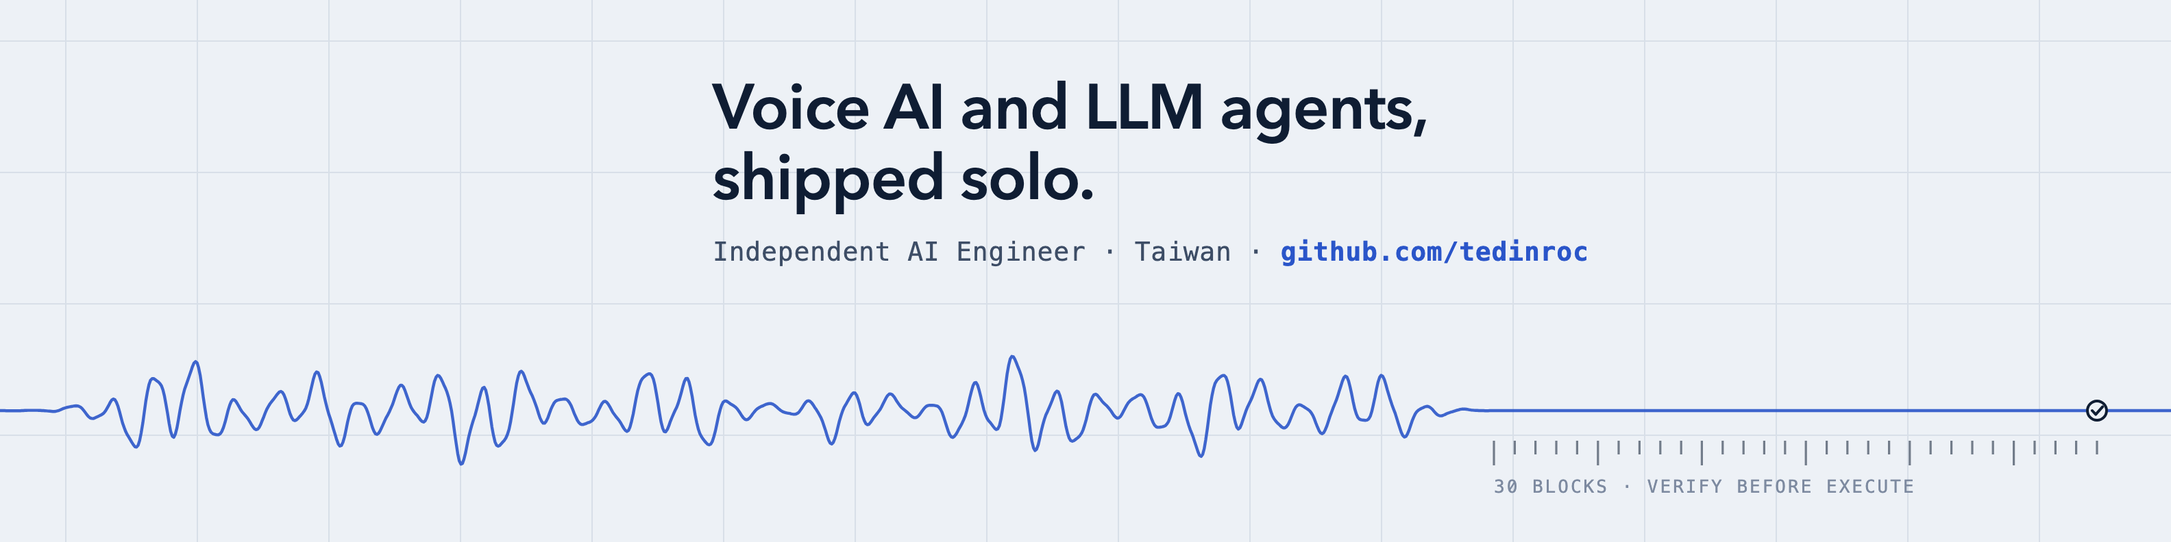
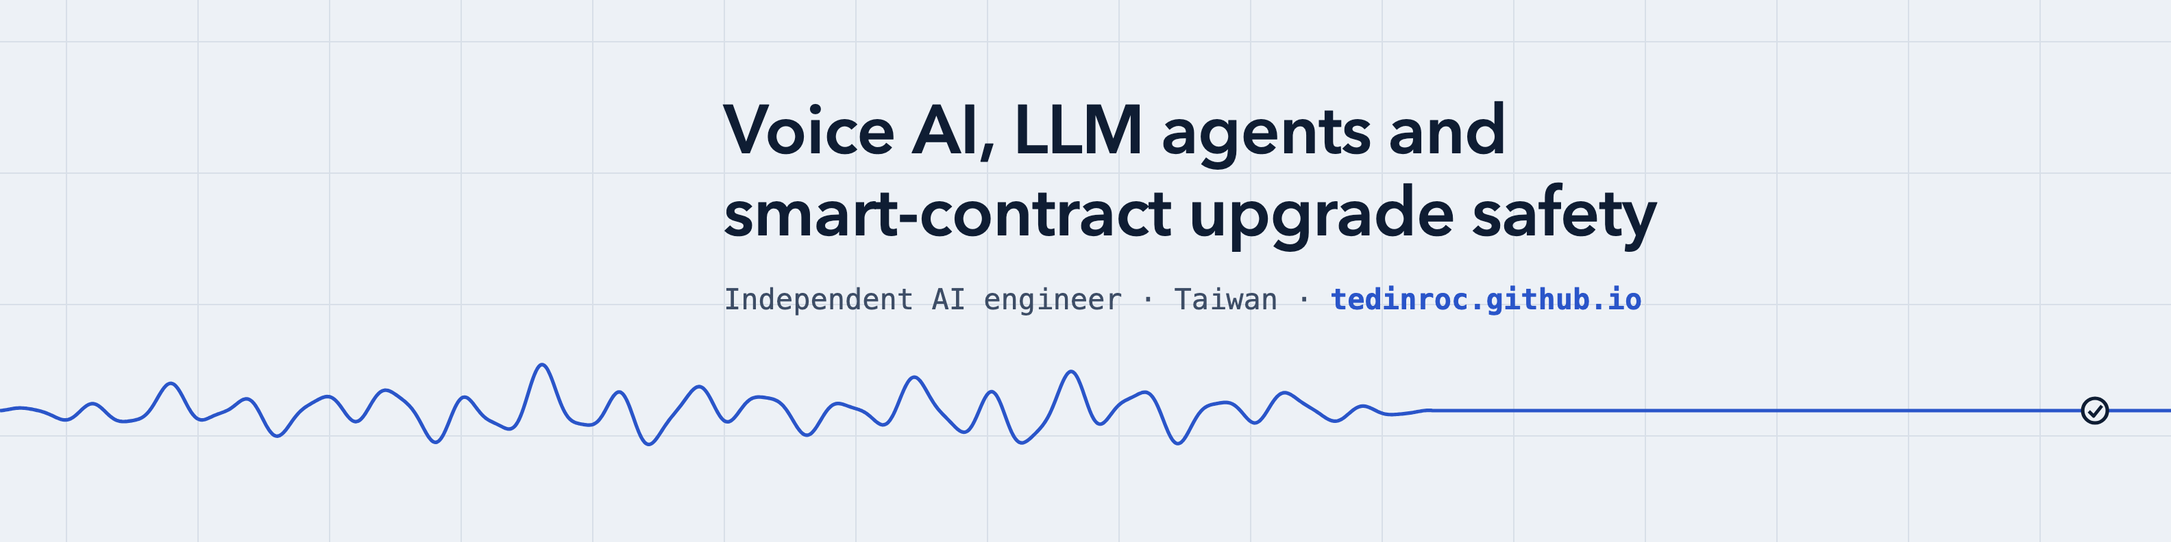
Plainer portfolio copy, add Upgrade Airlock page, new cover images

diff --git a/zh.html b/zh.html
@@ -4,18 +4,18 @@
 <meta charset="utf-8">
 <meta name="viewport" content="width=device-width, initial-scale=1">
 <title>Ted Chen · 作品集</title>
-<meta name="description" content="台灣的獨立 AI 工程師 Ted Chen。語音 AI、LLM agent、智能合約工具，獨立完成。現場演示、原始碼與比賽結果。">
+<meta name="description" content="台灣的獨立 AI 工程師 Ted Chen。語音 AI、LLM agent，以及智慧合約升級前的安全檢查工具。附 demo、錄影與原始碼。">
 <link rel="canonical" href="https://tedinroc.github.io/zh.html">
 <link rel="alternate" hreflang="en" href="https://tedinroc.github.io/">
 <meta property="og:type" content="website">
 <meta property="og:site_name" content="Ted Chen">
-<meta property="og:title" content="Ted Chen · 語音 AI 與 LLM agent，獨立完成">
-<meta property="og:description" content="台灣的獨立 AI 工程師。Eleven Seconds（Monad Blitz 上海 V3 第一名）、Upgrade Airlock（ETH Shenzhen 2026 第二名）、Isotherm、EARTHRISE、KAIKŌ 與語音 agent 智慧手錶，附現場 demo 與公開原始碼。">
+<meta property="og:title" content="Ted Chen · 台灣的獨立 AI 工程師">
+<meta property="og:description" content="語音 AI、LLM agent 與智慧合約升級安全。十一秒 Eleven Seconds（Monad Blitz 上海 V3 第一名）、Upgrade Airlock 升級氣閘（ETH Shenzhen 2026 第二名）、Isotherm、EARTHRISE、KAIKŌ 與語音 agent 手錶。">
 <meta property="og:url" content="https://tedinroc.github.io/zh.html">
 <meta property="og:image" content="https://tedinroc.github.io/assets/og/home.jpg">
 <meta property="og:image:width" content="1200">
 <meta property="og:image:height" content="627">
-<meta property="og:image:alt" content="Ted Chen：語音 AI 與 LLM agent，獨立完成。">
+<meta property="og:image:alt" content="Ted Chen，台灣的獨立 AI 工程師：語音 AI、LLM agent 與智慧合約升級安全。">
 <meta property="og:image:type" content="image/jpeg">
 <meta name="twitter:card" content="summary_large_image">
 <meta name="twitter:image" content="https://tedinroc.github.io/assets/og/home.jpg">
@@ -83,9 +83,9 @@ footer p{margin:0 0 6px}
 <div class="wrap">
   <header>
     <p class="eyebrow">Ted Chen · 獨立 AI 工程師 · 台灣</p>
-    <h1>語音 AI 與 LLM agent，獨立完成。</h1>
-    <p class="lede">我獨立開發語音 AI、LLM agent 與智能合約工具。題目由我選擇，系統由我設計；主要程式碼交由 Claude Code 與 Codex 產出，之後由我審查、測試、部署並親自演示。</p>
-    <p class="since">2006 年起獨立開發：先投入演算法交易，2016 年轉向智能合約，2023 年起專注於 AI 系統。</p>
+    <h1>語音 AI、LLM agent 與智慧合約升級安全。</h1>
+    <p class="lede">我在台灣做獨立開發，主要是語音 AI、LLM agent，以及智慧合約升級前的安全檢查工具。大部分程式碼是 Claude Code 和 Codex 寫的，設計、審查、測試和部署由我負責。</p>
+    <p class="since">2006 年開始寫程式交易策略，2016 年開始寫智慧合約，2023 年之後主要做 AI 系統。</p>
     <ul class="links">
       <li><a class="btn primary" href="https://github.com/tedinroc">GitHub</a></li>
       <li><a class="btn" href="https://www.linkedin.com/in/tedinroc">LinkedIn</a></li>
@@ -101,10 +101,10 @@ footer p{margin:0 0 6px}
         <img src="eleven-seconds-arena/og.jpg" alt="Eleven Seconds Arena: an attack proposal vetoed by three sentinels on Monad testnet" loading="lazy" width="1200" height="627">
         <div class="body">
           <p class="meta"><b>第一名</b> · Monad Blitz 上海 V3 · 2026 年 10 月</p>
-          <h3>Eleven Seconds</h3>
-          <p class="desc">智能合約升級的 30 個區塊冷卻期。三個 sentinel 程序各自持有私鑰，對新程式碼模擬攻擊；不變量被打破或模擬失敗，就在鏈上否決。於活動現場開發，單人參賽。僅限測試網，未經審計。</p>
+          <h3>十一秒 Eleven Seconds</h3>
+          <p class="desc">在 Monad 測試網上，合約升級要先等 30 個區塊；等待期間，三個 sentinel 程式會在模擬環境攻擊新程式碼，違反規則就在鏈上否決。當天在現場完成，單人參賽。</p>
           <div class="actions">
-            <a href="eleven-seconds-arena/">Arena：親自發動攻擊</a>
+            <a href="eleven-seconds-arena/">Arena：自己發動攻擊</a>
             <a href="eleven-seconds/">戰情室</a>
             <a href="https://github.com/tedinroc/eleven-seconds">原始碼（MIT）</a>
             <a href="https://mojo.devnads.com/events/17?tab=showcase">官方結果</a>
@@ -116,9 +116,10 @@ footer p{margin:0 0 6px}
         <img src="assets/img/upgrade-airlock-war-room.jpg" alt="Upgrade Airlock war room: a real replay of an EvilDrain upgrade vetoed by Chainlink CRE on Ethereum Sepolia" loading="lazy" width="1200" height="627">
         <div class="body">
           <p class="meta"><b>第二名</b> · ETH Shenzhen 2026 · 2026 年 10 月</p>
-          <h3>Upgrade Airlock</h3>
-          <p class="desc">每次 proxy 升級要過兩道門：以區塊計算的冷卻期，以及 Chainlink CRE 工作流的鏈上許可——工作流會先在模擬器裡攻擊新實作。攻擊成功的升級會收到簽名否決，永遠不會執行，即使攻擊者持有升級權限亦然。已部署於 Ethereum Sepolia，單人參賽。僅限測試網，未經審計。</p>
+          <h3>Upgrade Airlock 升級氣閘</h3>
+          <p class="desc">在 Ethereum Sepolia 測試網上，proxy 升級要先等冷卻期、拿到鏈上放行才能執行；Chainlink CRE 工作流會先模擬攻擊新實作，再決定放行或否決。單人參賽。</p>
           <div class="actions">
+            <a href="upgrade-airlock/">介紹</a>
             <a href="https://upgrade-airlock.pages.dev/">戰情室</a>
             <a href="https://upgrade-airlock.pages.dev/video/">Demo 影片</a>
             <a href="https://github.com/tedinroc/upgrade-airlock">原始碼（MIT）</a>
@@ -131,9 +132,9 @@ footer p{margin:0 0 6px}
         <div class="body">
           <p class="meta">Monad Metropolis Track 01 · 結果待公布</p>
           <h3>Isotherm</h3>
-          <p class="desc">Monad 測試網上的每日氣溫履約階梯：Kuru 訂單簿上的 YES/NO 代幣、做市機器人、給 AI agent 的 MetaMask Agent Wallet 外掛，以及用官方 CRE CLI 執行的 Chainlink CRE 工作流從機場 METAR 資料結算。149 個 Foundry 測試。僅使用測試 AUSD。</p>
+          <p class="desc">在 Monad 測試網上，每天針對城市最高溫開一組 YES/NO 市場（履約價階梯），透過 Chainlink CRE 工作流用機場 METAR 觀測資料結算。造市程式在 Kuru 訂單簿上報價，AI agent 也能透過 MetaMask Agent Wallet 外掛交易。149 個 Foundry 測試。</p>
           <div class="actions">
-            <a href="isotherm/">開啟應用</a>
+            <a href="isotherm/">開啟 App</a>
             <a href="https://youtu.be/15AFL_xz_3U">Demo 影片</a>
             <a href="https://github.com/tedinroc/isotherm">原始碼（MIT）</a>
           </div>
@@ -143,9 +144,9 @@ footer p{margin:0 0 6px}
       <article class="card">
         <img src="earthrise/img/cover_og.jpg" alt="EARTHRISE scene: Earth rising over a lunar crater rim" loading="lazy" width="1200" height="630">
         <div class="body">
-          <p class="meta">Tripothon S1 參賽 · 結果待公布</p>
+          <p class="meta">Tripothon S1 參賽作品 · 2026 年 10 月</p>
           <h3>EARTHRISE</h3>
-          <p class="desc">真實月球高程資料，加上 Tripo 生成的地球，用 three.js 即時渲染。</p>
+          <p class="desc">用 three.js 做的月球場景：坑緣用真實高程資料重建，轉動曲柄，Tripo 生成的地球就從坑緣後方升起。</p>
           <div class="actions">
             <a href="earthrise/">開啟場景</a>
             <a href="https://earthrise-daedalus.pages.dev/">官方參賽頁</a>
@@ -158,9 +159,9 @@ footer p{margin:0 0 6px}
         <div class="body">
           <p class="meta">語音 AI · 2026</p>
           <h3>KAIKŌ</h3>
-          <p class="desc">多租戶語音點餐：OpenAI Realtime over WebRTC，失敗時退回瀏覽器語音辨識，再退回打字。每個模型工具呼叫都在伺服器端檢查後才接受訂單。118 個測試通過。案例研究包含一段 90 秒的真實語音點餐錄音，從招呼至廚房顯示。</p>
+          <p class="desc">語音點餐系統，走 OpenAI Realtime（WebRTC），用示範店家資料展示。模型的每個工具呼叫都要經過伺服器檢查，價格也由伺服器重算。案例頁附一段 90 秒錄影，從打招呼一路到廚房顯示。</p>
           <div class="actions">
-            <a href="kaiko/">案例研究與 Demo 影片</a>
+            <a href="kaiko/">案例與錄影（英文）</a>
           </div>
         </div>
       </article>
@@ -169,10 +170,10 @@ footer p{margin:0 0 6px}
         <img src="watch/og.jpg" alt="ESP32-S3 voice-agent smartwatch prototype" loading="lazy" width="1200" height="627">
         <div class="body">
           <p class="meta">硬體原型 · 2026 年 8–9 月</p>
-          <h3>ESP32-S3 語音 agent 智慧手錶</h3>
-          <p class="desc">ESP32-S3 AMOLED 手錶上的語音 AI agent，建在 xiaozhi-esp32（MIT）和 ESP-Claw（Apache-2.0）上，搭配我自己寫的 Go 語音閘道。用單變數控制實驗把「回答被截斷」追到缺少 barge-in 確認視窗，而不是喇叭回音。僅有一個可用原型，尚非產品。</p>
+          <h3>ESP32-S3 語音 agent 手錶</h3>
+          <p class="desc">個人原型，在 ESP32-S3 AMOLED 手錶上跑語音 AI agent，以 xiaozhi-esp32（MIT）和 ESP-Claw（Apache-2.0）為基礎，Go 語音閘道是我自己寫的。回答常講到一半就斷掉，我用對照實驗排除喇叭回音，找到真正原因是 barge-in 沒有確認窗。</p>
           <div class="actions">
-            <a href="watch/">專案網站（中文）</a>
+            <a href="watch/">專案網站</a>
           </div>
         </div>
       </article>
@@ -182,7 +183,7 @@ footer p{margin:0 0 6px}
   </main>
 
   <footer>
-    <p>本站內容均為測試網、演示或原型。本站每個專案頁都放在 GitHub Pages 上：demo 的靜態副本、附錄音的案例研究（KAIKŌ），或是按下按鈕才載入線上應用的頁面（Arena 和 Isotherm）。</p>
+    <p>這裡的每個專案頁都放在 GitHub Pages 上：demo 的靜態副本、專案介紹（Upgrade Airlock）、附錄影的案例（KAIKŌ），或是按下按鈕才載入線上應用的頁面（Arena 和 Isotherm）。</p>
     <p>© 2026 Ted Chen</p>
   </footer>
 </div>

diff --git a/index.html b/index.html
@@ -4,18 +4,18 @@
 <meta charset="utf-8">
 <meta name="viewport" content="width=device-width, initial-scale=1">
 <title>Ted Chen · Projects</title>
-<meta name="description" content="Ted Chen, independent AI engineer in Taiwan. Voice AI, LLM agents and smart-contract tools, developed independently. Live demos, source code and results.">
+<meta name="description" content="Ted Chen, independent AI engineer in Taiwan. Voice AI, LLM agents and tools that check smart-contract upgrades before they run. Demos, recordings and source.">
 <link rel="canonical" href="https://tedinroc.github.io/">
 <link rel="alternate" hreflang="zh-Hant" href="https://tedinroc.github.io/zh.html">
 <meta property="og:type" content="website">
 <meta property="og:site_name" content="Ted Chen">
-<meta property="og:title" content="Ted Chen · Voice AI and LLM agents, developed independently">
-<meta property="og:description" content="Independent AI engineer in Taiwan. Eleven Seconds (1st place, Monad Blitz Shanghai V3), Upgrade Airlock (2nd, ETH Shenzhen 2026), Isotherm, EARTHRISE, KAIKŌ and a voice-agent smartwatch, with live demos, and source where public.">
+<meta property="og:title" content="Ted Chen · Independent AI engineer in Taiwan">
+<meta property="og:description" content="Voice AI, LLM agents and smart-contract upgrade safety. Eleven Seconds (1st place, Monad Blitz Shanghai V3), Upgrade Airlock (2nd place, ETH Shenzhen 2026), Isotherm, EARTHRISE, KAIKŌ and a voice-agent smartwatch.">
 <meta property="og:url" content="https://tedinroc.github.io/">
 <meta property="og:image" content="https://tedinroc.github.io/assets/og/home.jpg">
 <meta property="og:image:width" content="1200">
 <meta property="og:image:height" content="627">
-<meta property="og:image:alt" content="Ted Chen: Voice AI and LLM agents, developed independently.">
+<meta property="og:image:alt" content="Ted Chen, independent AI engineer in Taiwan: voice AI, LLM agents and smart-contract upgrade safety.">
 <meta property="og:image:type" content="image/jpeg">
 <meta name="twitter:card" content="summary_large_image">
 <meta name="twitter:image" content="https://tedinroc.github.io/assets/og/home.jpg">
@@ -83,9 +83,9 @@ footer p{margin:0 0 6px}
 <div class="wrap">
   <header>
     <p class="eyebrow">Ted Chen · Independent AI Engineer · Taiwan</p>
-    <h1>Voice AI and LLM agents, developed independently.</h1>
-    <p class="lede">I build voice AI, LLM agents and smart-contract tools independently: I select the problem, design the system, direct Claude Code and Codex to produce most of the implementation, and then review, test, deploy and demonstrate the result.</p>
-    <p class="since">Independent development since 2006: algorithmic trading first, smart contracts from 2016, and AI systems since 2023.</p>
+    <h1>Voice AI, LLM agents and smart-contract upgrade safety.</h1>
+    <p class="lede">I build voice AI, LLM agents and tools that check smart-contract upgrades before they run. Claude Code and Codex write most of my code from my designs, and I review, test and ship it.</p>
+    <p class="since">I started writing algorithmic trading strategies in 2006 and smart contracts in 2016, and have focused on AI systems since 2023.</p>
     <ul class="links">
       <li><a class="btn primary" href="https://github.com/tedinroc">GitHub</a></li>
       <li><a class="btn" href="https://www.linkedin.com/in/tedinroc">LinkedIn</a></li>
@@ -102,7 +102,7 @@ footer p{margin:0 0 6px}
         <div class="body">
           <p class="meta"><b>1st place</b> · Monad Blitz Shanghai V3 · Oct 2026</p>
           <h3>Eleven Seconds</h3>
-          <p class="desc">A 30-block cooldown on smart-contract upgrades. Three sentinel processes, each with its own key, simulate attacks against the new code and veto it on chain when an invariant breaks or the simulation fails. Developed on site, entered solo. Testnet only, not audited.</p>
+          <p class="desc">On the Monad testnet, each contract upgrade waits 30 blocks while three sentinel processes attack the new code in simulation and veto it on chain if it breaks a rule. Built on site, entered solo.</p>
           <div class="actions">
             <a href="eleven-seconds-arena/">Arena: fire an attack</a>
             <a href="eleven-seconds/">War room</a>
@@ -117,8 +117,9 @@ footer p{margin:0 0 6px}
         <div class="body">
           <p class="meta"><b>2nd place</b> · ETH Shenzhen 2026 · Oct 2026</p>
           <h3>Upgrade Airlock</h3>
-          <p class="desc">Every proxy upgrade passes two doors: a cooldown measured in blocks, and an on-chain clearance from a Chainlink CRE workflow that first attacks the new implementation in a simulator. An upgrade that fails the attack receives a signed veto and does not execute, even if the attacker holds the upgrade key. Live on Ethereum Sepolia, entered solo. Testnet only, not audited.</p>
+          <p class="desc">On the Ethereum Sepolia testnet, a proxy upgrade has to wait out a cooldown and get an on-chain clearance. A Chainlink CRE workflow attacks the new implementation in simulation first, then clears or vetoes it. Entered solo.</p>
           <div class="actions">
+            <a href="upgrade-airlock/">Overview</a>
             <a href="https://upgrade-airlock.pages.dev/">War room</a>
             <a href="https://upgrade-airlock.pages.dev/video/">Demo video</a>
             <a href="https://github.com/tedinroc/upgrade-airlock">Source (MIT)</a>
@@ -131,7 +132,7 @@ footer p{margin:0 0 6px}
         <div class="body">
           <p class="meta">Monad Metropolis, Track 01 · results pending</p>
           <h3>Isotherm</h3>
-          <p class="desc">Daily temperature strike ladders on Monad testnet: YES/NO tokens on Kuru order books, a market-making bot, a MetaMask Agent Wallet plugin for AI agents, and settlement from airport METAR data by a Chainlink CRE workflow run with the official CRE CLI. 149 Foundry tests. Test AUSD only.</p>
+          <p class="desc">Each day it opens YES/NO markets on the Monad testnet for a city's high temperature, one per strike, and settles them from airport METAR reports through a Chainlink CRE workflow. A market maker quotes on Kuru order books, and AI agents can trade through a MetaMask Agent Wallet plugin. 149 Foundry tests.</p>
           <div class="actions">
             <a href="isotherm/">Open the app</a>
             <a href="https://youtu.be/15AFL_xz_3U">Demo video</a>
@@ -143,9 +144,9 @@ footer p{margin:0 0 6px}
       <article class="card">
         <img src="earthrise/img/cover_og.jpg" alt="EARTHRISE scene: Earth rising over a lunar crater rim" loading="lazy" width="1200" height="630">
         <div class="body">
-          <p class="meta">Tripothon S1 entry · results pending</p>
+          <p class="meta">Tripothon S1 entry · Oct 2026</p>
           <h3>EARTHRISE</h3>
-          <p class="desc">Real lunar elevation data and a Tripo-generated Earth, rendered live in three.js.</p>
+          <p class="desc">A three.js scene where a Tripo-generated Earth rises over a lunar crater rim rebuilt from real elevation data.</p>
           <div class="actions">
             <a href="earthrise/">Open the scene</a>
             <a href="https://earthrise-daedalus.pages.dev/">Official entry</a>
@@ -158,9 +159,9 @@ footer p{margin:0 0 6px}
         <div class="body">
           <p class="meta">Voice AI · 2026</p>
           <h3>KAIKŌ</h3>
-          <p class="desc">Multi-tenant voice ordering: OpenAI Realtime over WebRTC that falls back to browser speech recognition, then typing. Every model tool call is checked on the server before an order is accepted. 118 tests passing. The case study includes a 90-second recording of a real voice order, from greeting to the kitchen display.</p>
+          <p class="desc">Voice ordering on OpenAI Realtime over WebRTC, shown in a demo store. The server checks every tool call the model makes and recomputes prices. The case study includes a 90-second recording of a full voice order, from greeting to the kitchen display.</p>
           <div class="actions">
-            <a href="kaiko/">Case study and demo video</a>
+            <a href="kaiko/">Case study and recording</a>
           </div>
         </div>
       </article>
@@ -170,7 +171,7 @@ footer p{margin:0 0 6px}
         <div class="body">
           <p class="meta">Hardware prototype · Aug–Sep 2026</p>
           <h3>ESP32-S3 voice-agent smartwatch</h3>
-          <p class="desc">A voice AI agent on an ESP32-S3 AMOLED watch, built on xiaozhi-esp32 (MIT) and ESP-Claw (Apache-2.0), with my own Go voice gateway. A single-variable control run traced cut-off answers to a missing barge-in confirmation window, not speaker echo. A single working prototype, not a product.</p>
+          <p class="desc">A personal prototype that runs a voice AI agent on an ESP32-S3 AMOLED watch, built on xiaozhi-esp32 (MIT) and ESP-Claw (Apache-2.0) with my own Go voice gateway. When answers kept getting cut off, a control run ruled out speaker echo and traced the cause to barge-in with no confirmation window.</p>
           <div class="actions">
             <a href="watch/">Project site (Chinese)</a>
           </div>
@@ -182,7 +183,7 @@ footer p{margin:0 0 6px}
   </main>
 
   <footer>
-    <p>All work here is testnet, demonstration or prototype work. Each project page on this site is hosted on GitHub Pages: a static copy of the demo, a case study with a recorded demo (KAIKŌ), or a page that loads the live app when you press its button (the Arena and Isotherm).</p>
+    <p>Each project page here is hosted on GitHub Pages: a static copy of the demo, a project overview (Upgrade Airlock), a case study with a recording (KAIKŌ), or a page that loads the live app when you press its button (the Arena and Isotherm).</p>
     <p>© 2026 Ted Chen</p>
   </footer>
 </div>

diff --git a/upgrade-airlock/index.html b/upgrade-airlock/index.html
@@ -1,0 +1,108 @@
+<!doctype html>
+<html lang="en">
+<head>
+<meta charset="utf-8">
+<meta name="viewport" content="width=device-width, initial-scale=1">
+<title>Upgrade Airlock: a clearance gate for proxy upgrades</title>
+<meta name="description" content="2nd place at the ETH Shenzhen 2026 Hackathon. On the Ethereum Sepolia testnet, a proxy upgrade runs only after a block cooldown and an on-chain clearance; a Chainlink CRE workflow attacks the new implementation in simulation first.">
+<meta name="author" content="Ted Chen">
+<link rel="canonical" href="https://tedinroc.github.io/upgrade-airlock/">
+<meta property="og:type" content="website">
+<meta property="og:site_name" content="Ted Chen">
+<meta property="og:title" content="Upgrade Airlock: a clearance gate for proxy upgrades">
+<meta property="og:description" content="2nd place at the ETH Shenzhen 2026 Hackathon. Proxy upgrades on the Ethereum Sepolia testnet wait out a cooldown and need an on-chain clearance, and a Chainlink CRE workflow attacks the new code in simulation first.">
+<meta property="og:url" content="https://tedinroc.github.io/upgrade-airlock/">
+<meta property="og:locale" content="en_US">
+<meta property="og:image" content="https://tedinroc.github.io/assets/img/upgrade-airlock-war-room.jpg">
+<meta property="og:image:secure_url" content="https://tedinroc.github.io/assets/img/upgrade-airlock-war-room.jpg">
+<meta property="og:image:type" content="image/jpeg">
+<meta property="og:image:width" content="1200">
+<meta property="og:image:height" content="627">
+<meta property="og:image:alt" content="Upgrade Airlock war room: a replay of a malicious upgrade vetoed on Ethereum Sepolia">
+<meta name="twitter:card" content="summary_large_image">
+<meta name="twitter:title" content="Upgrade Airlock: a clearance gate for proxy upgrades">
+<meta name="twitter:description" content="2nd place at the ETH Shenzhen 2026 Hackathon. Proxy upgrades on the Ethereum Sepolia testnet wait out a cooldown and need an on-chain clearance.">
+<meta name="twitter:image" content="https://tedinroc.github.io/assets/img/upgrade-airlock-war-room.jpg">
+<link rel="icon" href="../assets/favicon.svg" type="image/svg+xml">
+<style>
+:root{
+  --bg:#edf1f6; --grid:#d8dfe8; --card:#ffffff; --ink:#0f1d33; --sub:#3d4d66; --muted:#5f6d84;
+  --accent:#2a55c9; --accent-ink:#ffffff; --line:#d3dbe6; --chip:#e3e9f2;
+  color-scheme: light;
+}
+@media (prefers-color-scheme: dark){
+  :root:not([data-theme="light"]){
+    --bg:#0c1524; --grid:#16233a; --card:#121e33; --ink:#e7edf7; --sub:#b4c0d4; --muted:#8e9bb2;
+    --accent:#7d9eff; --accent-ink:#0c1524; --line:#22324e; --chip:#1a2942; color-scheme: dark;
+  }
+}
+:root[data-theme="dark"]{
+  --bg:#0c1524; --grid:#16233a; --card:#121e33; --ink:#e7edf7; --sub:#b4c0d4; --muted:#8e9bb2;
+  --accent:#7d9eff; --accent-ink:#0c1524; --line:#22324e; --chip:#1a2942; color-scheme: dark;
+}
+*{box-sizing:border-box}
+html{-webkit-text-size-adjust:100%}
+body{
+  margin:0; background:var(--bg); color:var(--ink);
+  font:16px/1.6 "Avenir Next","Helvetica Neue",Helvetica,Arial,"PingFang TC","Noto Sans TC",sans-serif;
+  background-image:
+    linear-gradient(var(--grid) 1px, transparent 1px),
+    linear-gradient(90deg, var(--grid) 1px, transparent 1px);
+  background-size:96px 96px; background-position:-1px -1px;
+}
+a{color:var(--accent)}
+.wrap{max-width:880px; margin:0 auto; padding:40px 16px 56px}
+.eyebrow{font-family:Menlo,"SF Mono",ui-monospace,monospace; font-size:13px; letter-spacing:1.2px; text-transform:uppercase; color:var(--muted); margin:0 0 12px}
+.eyebrow a{color:inherit}
+h1{font-size:clamp(28px,5vw,42px); line-height:1.12; letter-spacing:-.4px; margin:0 0 10px; font-weight:600; text-wrap:balance}
+.meta{font-family:Menlo,"SF Mono",ui-monospace,monospace; font-size:13px; color:var(--muted); margin:0 0 24px}
+.meta b{color:var(--accent); font-weight:600}
+figure{margin:0 0 24px}
+figure img{display:block; width:100%; height:auto; aspect-ratio:1200/627; border-radius:12px; border:1px solid var(--line); background:var(--chip)}
+figcaption{font-size:13.5px; color:var(--muted); margin-top:8px}
+.actions{display:flex; flex-wrap:wrap; gap:10px; margin:0 0 28px; padding:0; list-style:none}
+.btn{display:inline-flex; align-items:center; min-height:42px; padding:8px 16px; border-radius:8px; border:1px solid var(--line); background:var(--card); color:var(--ink); text-decoration:none; font-weight:600; font-size:15px}
+.btn:hover{border-color:var(--accent)}
+.btn.primary{background:var(--accent); border-color:var(--accent); color:var(--accent-ink)}
+section{background:var(--card); border:1px solid var(--line); border-radius:12px; padding:20px 22px; margin:0 0 16px}
+section h2{font-family:Menlo,"SF Mono",ui-monospace,monospace; font-size:12.5px; letter-spacing:1.4px; text-transform:uppercase; color:var(--muted); font-weight:600; margin:0 0 10px}
+section p{margin:0 0 12px; color:var(--sub); max-width:68ch}
+section p:last-child{margin-bottom:0}
+footer{color:var(--muted); font-size:14px; margin-top:24px}
+:focus-visible{outline:3px solid var(--accent); outline-offset:2px}
+@media (max-width:520px){ .wrap{padding-top:28px} .actions .btn{flex:1 1 100%; justify-content:center} }
+</style>
+</head>
+<body>
+<div class="wrap">
+  <p class="eyebrow"><a href="../">Ted Chen</a> · Projects</p>
+  <h1>Upgrade Airlock</h1>
+  <p class="meta"><b>2nd place</b> · ETH Shenzhen 2026 Hackathon · Oct 2026 · Ethereum Sepolia testnet</p>
+
+  <figure>
+    <img src="../assets/img/upgrade-airlock-war-room.jpg" width="1200" height="627" alt="Upgrade Airlock war room: a replay of a malicious upgrade vetoed on Ethereum Sepolia">
+    <figcaption>The war room replays real proposals from the Sepolia testnet.</figcaption>
+  </figure>
+
+  <ul class="actions">
+    <li><a class="btn primary" href="https://upgrade-airlock.pages.dev/">Open the war room</a></li>
+    <li><a class="btn" href="https://upgrade-airlock.pages.dev/video/">Demo video</a></li>
+    <li><a class="btn" href="https://github.com/tedinroc/upgrade-airlock">Source (MIT)</a></li>
+  </ul>
+
+  <section>
+    <h2>How it works</h2>
+    <p>A proxy upgrade runs only after a block cooldown and an on-chain clearance. A Chainlink CRE workflow runs the new implementation against the proxy's real state, has a funded outside account call every new function, and compares supply, ownership and balances before and after. If the attack works, the upgrade gets a signed veto. A bytecode rule also catches code that behaves well in simulation but mints tokens on a real block.</p>
+    <p>Of the first ten proposals on the Sepolia testnet, the one honest upgrade was cleared and executed, and all nine test attacks were vetoed. I entered solo. Solidity and Foundry for the contracts, TypeScript for the workflow.</p>
+  </section>
+
+  <section lang="zh-Hant">
+    <h2>中文說明</h2>
+    <p>proxy 升級要等區塊冷卻期結束、拿到鏈上放行才能執行。Chainlink CRE 工作流會把新實作放進 proxy 的真實狀態裡執行，讓一個有資金的陌生地址呼叫每個新函式，再比對前後的總供給量、擁有權和餘額；攻擊成功，升級就會收到簽章否決。</p>
+    <p>Sepolia 測試網上的前十個提案裡，唯一一個正常升級拿到放行並順利執行，九個測試攻擊全都被否決。ETH Shenzhen 2026 黑客松第二名，單人參賽。</p>
+  </section>
+
+  <footer><a href="../">All projects</a> · <a href="../zh.html">中文作品集</a> · © 2026 Ted Chen</footer>
+</div>
+</body>
+</html>
